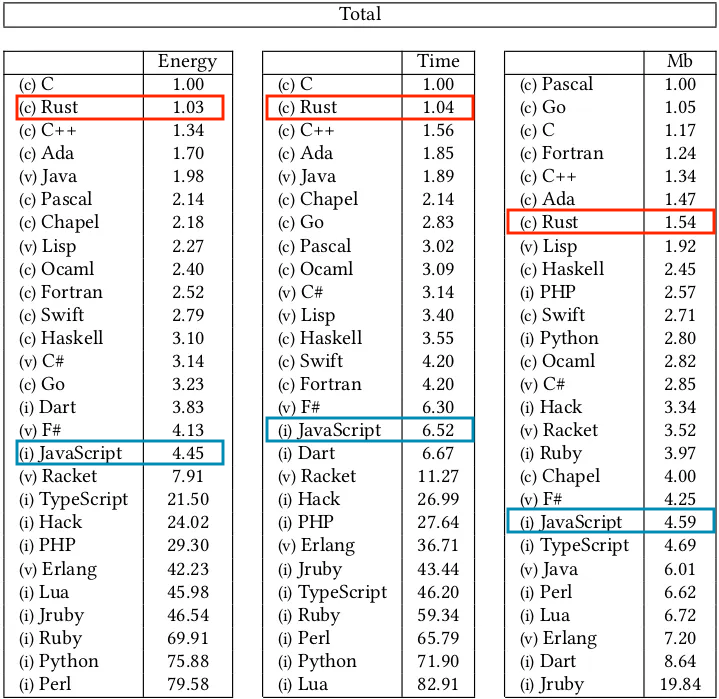
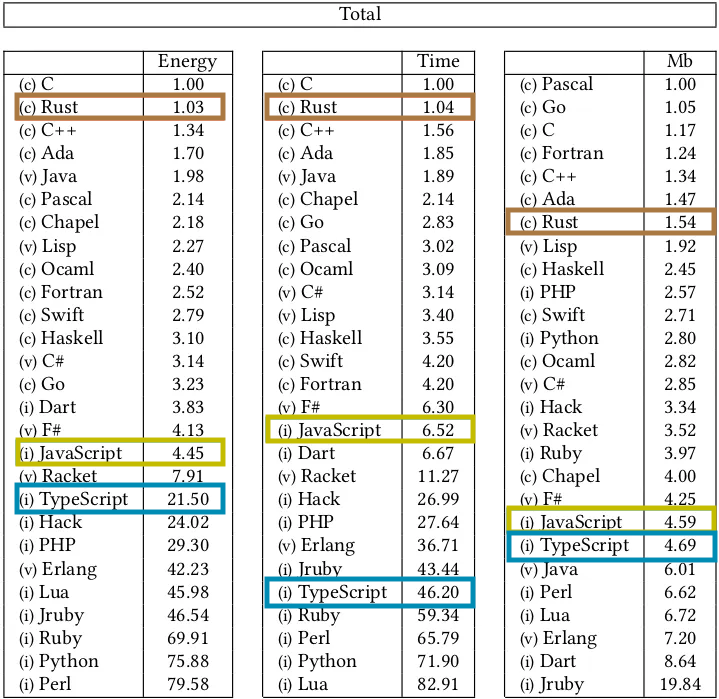
feat: iterate

diff --git a/docs/Presentation.md b/docs/Presentation.md
@@ -12,6 +12,14 @@ API Days Paris - Zacaria Chtatar - December 2023
 
 https://havesome-rust-api-day.surge.sh
 
+note:
+
+Started dev and JS 10 years ago
+And I love it
+I love the fact that you can move quickly
+The fact that you can use it everywhere
+And that's the richest ecosystem ever
+
 ---
 
 ## Forget TypeScript
@@ -19,6 +27,12 @@ https://havesome-rust-api-day.surge.sh
 ## Choose Rust to build
 
 ## Robust, Fast and Cheap APIs
+
+note:
+
+But today I'm going to suggest you to
+
+Forget Typescript
 
 ---
 
@@ -198,12 +212,28 @@ Make it clear of what could go wrong
 
 2016 : Do you remember the [left-pad drama](https://qz.com/646467/how-one-programmer-broke-the-internet-by-deleting-a-tiny-piece-of-code) ?
 
-no package un publish
+no package unpublish
+
+note:
+
+cargo does not allow unpublishing
+Instead it allows flagging packages and version to not be downloaded as new dependency
 
 ----
 
-- Linux project
-- [Microsoft](https://msrc.microsoft.com/blog/2019/07/a-proactive-approach-to-more-secure-code/) project
+Linux: [Le Kernel](https://linux.developpez.com/actu/337316/Rust-for-Linux-est-officiellement-fusionne-le-support-initial-de-Rust-for-Linux-fournit-l-infrastructure-de-base-et-une-integration-elementaire/)
+
+<img src="imgs/linus-logo.webp" style="height: 250px">
+
+- 2/3 of vunerabilities come from memory management <!-- .element: class="fragment" data-fragment-index="1" -->
+- Kernel is in C and Assembly <!-- .element: class="fragment" data-fragment-index="2" -->
+- Linus Torvalds : ❌ C++ ❌ <!-- .element: class="fragment" data-fragment-index="3" -->
+- attract young devs <!-- .element: class="fragment" data-fragment-index="4" -->
+
+note:
+
+<!-- - Linux project
+- [Microsoft](https://msrc.microsoft.com/blog/2019/07/a-proactive-approach-to-more-secure-code/) project -->
 
 ---
 
@@ -213,12 +243,72 @@ no package un publish
 
 <img src="imgs/comparison.png" style="height: 450px">
 
+note:
+
+[Energy efficiency accross programing languages](https://greenlab.di.uminho.pt/wp-content/uploads/2017/10/sleFinal.pdf)
+
+Energy measured using a framework (Computer Language Benchmarks Game) designed for running testing and comparing solutions to problems
+
+And Intel's Running Average Power Limit (RAPL) tool which can measure energy consumption of an executed program.
+
+----
+
+#### Github: [Code Search index](https://github.blog/2023-02-06-the-technology-behind-githubs-new-code-search/)
+
+<img src="imgs/github.png" style="background-color: whitesmoke; height: 150px">
+
+
+45 million repos to index : <!-- .element: class="fragment" data-fragment-index="1" -->
+
+- several months with Elasticsearch <!-- .element: class="fragment" data-fragment-index="2" -->
+- 18h in Rust <!-- .element: class="fragment" data-fragment-index="3" -->
+
+----
+
+#### Clouflare: [HTTP proxy](https://blog.cloudflare.com/how-we-built-pingora-the-proxy-that-connects-cloudflare-to-the-internet/)
+
+<img src="imgs/cloudflare-logo.png" style="background-color: whitesmoke; height: 150px">
+
+- nginx not fast enough 🤯 <!-- .element: class="fragment" data-fragment-index="1" -->
+- hard to customize in C <!-- .element: class="fragment" data-fragment-index="2" -->
+- allows to share connections between threads <!-- .element: class="fragment" data-fragment-index="3" -->
+
+= 160x less connections to the origins <!-- .element: class="fragment" data-fragment-index="4" -->
+
+= 434 years less handshakes per day <!-- .element: class="fragment" data-fragment-index="5" -->
+
+----
+
+#### Discord: [Message read service](https://discord.com/blog/why-discord-is-switching-from-go-to-rust)
+
+<img src="imgs/discord-logo.png" style="background-color: red; height: 70px">
+
+
+- Cache of a few billion entries <!-- .element: class="fragment" data-fragment-index="1" -->
+- Every connection, message sent and read... <!-- .element: class="fragment" data-fragment-index="2" -->
+- latences toutes les 2 minutes en Go à cause du GC <!-- .element: class="fragment" data-fragment-index="3" -->
+
+<img src="imgs/discord_rex.png" style="height: 250px"> <!-- .element: class="fragment" data-fragment-index="4" -->
+
+note:
+
+Thanks to no GC
+Instead of stopping the world to clean unused memory
+Every variable is cleaned at a precise moment
+For the devs, that's the purpose of ownership
+
 ---
 
 ## Cheap
 
 - CPU and RAM consumption
-- Less bugs
+
+- Less maintenance with less bugs
+
+----
+
+### AWS Lambda
+
 - [Firecracker](https://firecracker-microvm.github.io/)
 
 ---
@@ -227,7 +317,7 @@ no package un publish
 
 ----
 
-Rust is the most loved language according [SO](https://survey.stackoverflow.co/2023/#section-admired-and-desired-programming-scripting-and-markup-languages) for 8 years
+Rust is the most admired language according [SO](https://survey.stackoverflow.co/2023/#section-admired-and-desired-programming-scripting-and-markup-languages) for 8 years
 
 When I go to JS meetups, lots of people speaking of Rust
 
@@ -240,6 +330,24 @@ From my perspective that a good recruitment argument
 As a more difficult than average technology
 By recruiting Rust developers you get higher than average devs
 Rust teachings can be used even outside of Rust projects
+
+----
+
+### It's a challenge
+
+- It take 3 to 6 months to become productive
+
+- It's not **that** hard
+
+- Documentation was oriented towards C/C++ senior devs
+
+note:
+
+[Study](https://blog.rust-lang.org/2020/12/16/rust-survey-2020.html)
+
+As a manager recruiting someone who successfully wen through the process of learning Rust
+
+It's a safe bet in the technical aspect
 
 ---
 
@@ -328,7 +436,7 @@ When I started, Rust documentation was designed for C++ devs
 
 note:
 
-Helps with discovery
+Helps with functions discovery and paradigm
 
 ---
 
@@ -375,6 +483,12 @@ projects :
 - Cloudflare
 - Github
 - [others](https://github.com/omarabid/rust-companies)
+
+---
+
+# Downsides ?
+
+- Project moves a bit slower
 
 ---
 
